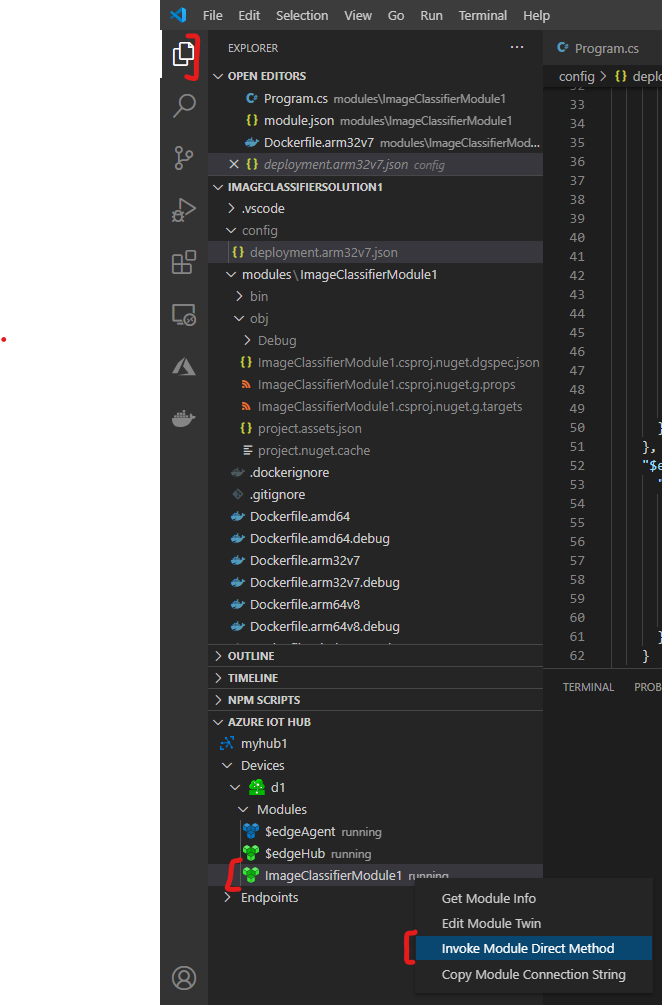
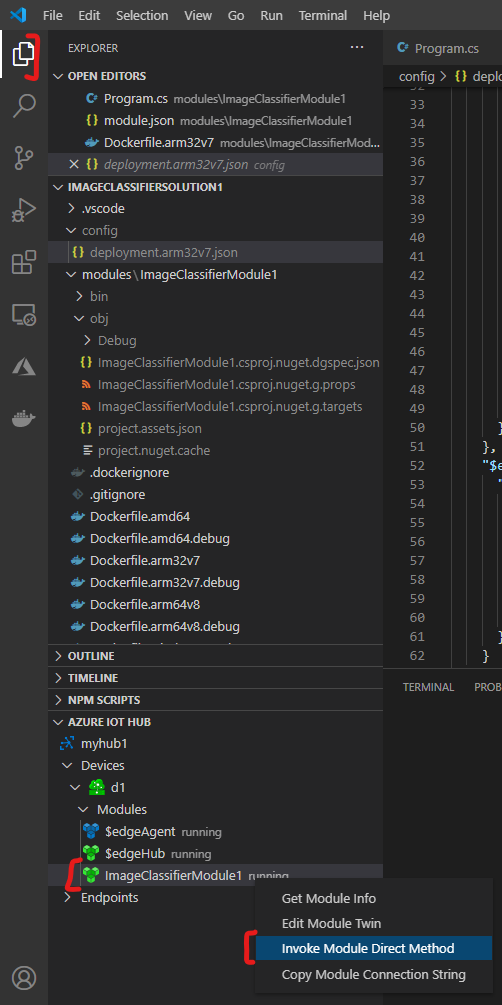
Fixed image and more text output

diff --git a/README.md b/README.md
@@ -519,8 +519,13 @@ Based on [Create a new module project](https://docs.microsoft.com/en-us/azure/io
 1. Navigate to *config/deployment.arm64v8.json* file and select it\
    ![Creating deployemnt - choosing file](/help/images/CreatingModule_creating_deployment_2.png "Creating deployment - choosing file")
 1. Inspect the device in the IoT extension and check the log messages.\
+   ImageClassifierModule1 shoul be running (may need refreshing) and the Output in the terminal should show a sucess.
+   ```
+   [Edge] Start deployment to device [d1]
+   [Edge] Deployment succeeded.
+   ```
    ![Creating deployment - confirming](/help/images/CreatingModule_creating_deployment_3.png "Creating deployment - confirming")
-1. Inspect device's logs
+2. Inspect device's logs
    1. ssh to the device, in a different terminal: *ssh pi@ip_here*
    2. `journalctl -u iotedge --no-pager --no-full`\
       ```log
@@ -532,7 +537,7 @@ Based on [Create a new module project](https://docs.microsoft.com/en-us/azure/io
       [INFO] - Starting module ImageClassifierModule1...
       [INFO] - Successfully started module ImageClassifierModule1
       ```
-2. Test the alive direct method
+3. Test the alive direct method
    1. In the IoT extension, right-click on the module, *NOT* on the device, and select *Invoke Module Direct Method*\
       ![Deployment - testing](/help/images/CreatingModule_testing.png "Deployment - testing")
    2. Type *alive*
